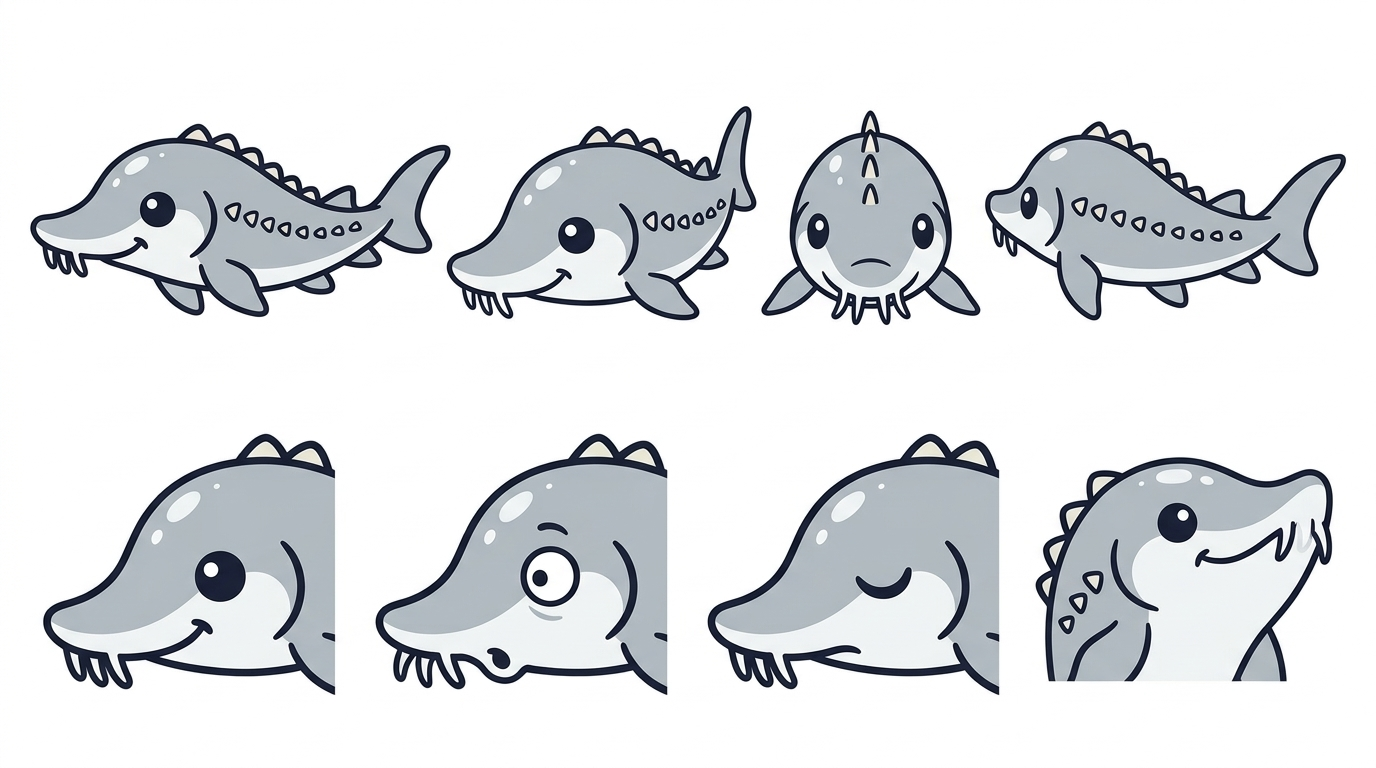
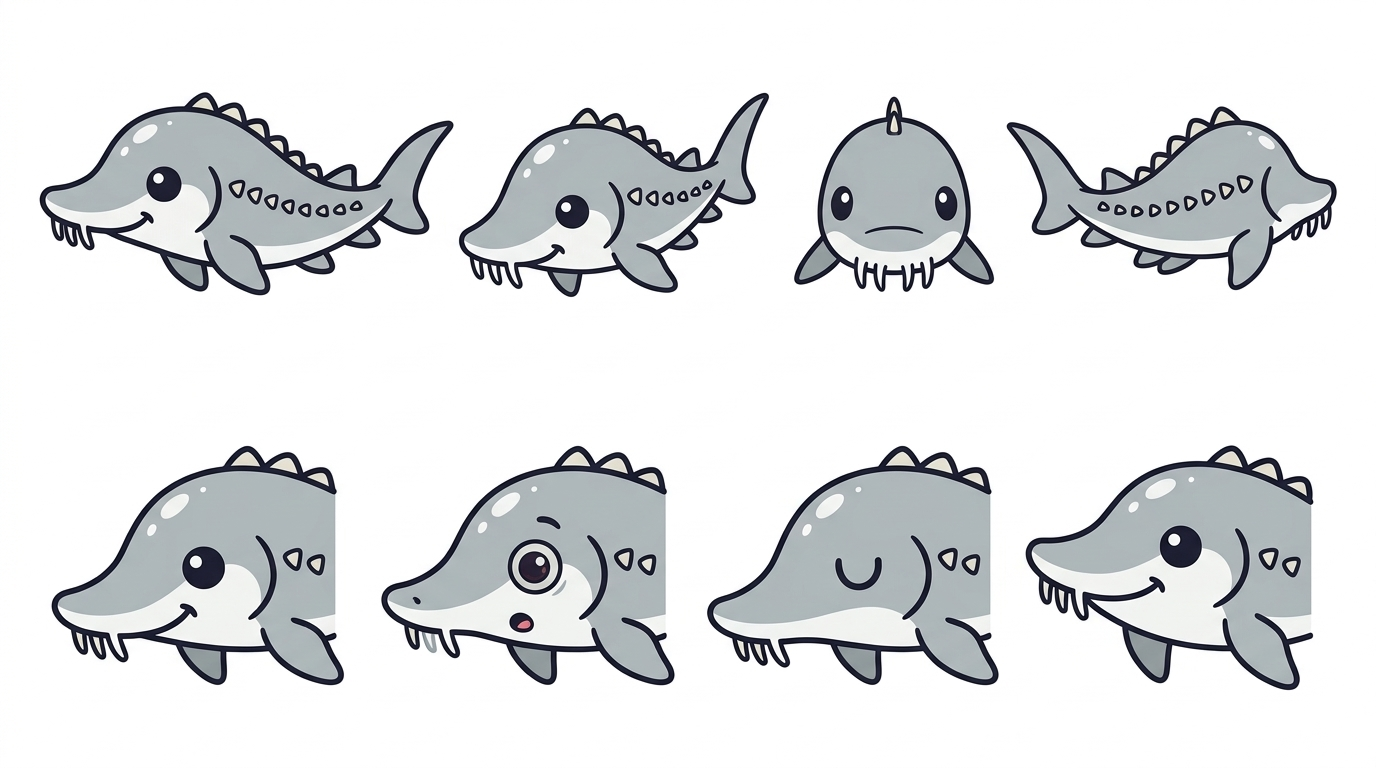
The swimming Chibi has one tail, and no teeth

Changed region(s): [[0.0312, 0.5625, 0.9688, 0.9062], [0.0, 0.125, 1.0, 0.4375]]

diff --git a/tools/run_chibi_swimmer_sheet.py b/tools/run_chibi_swimmer_sheet.py
@@ -26,7 +26,8 @@ PROMPT = (
     "Lay it out as two rows.\n"
     "TOP ROW - a turnaround of him swimming level, all the same size, evenly spaced: seen from his "
     "left side, from three-quarters front, head-on from the front, and from three-quarters behind.\n"
-    "BOTTOM ROW - four head-and-shoulders expressions at the same size, evenly spaced: happy, "
+    "BOTTOM ROW - four expressions, each drawn as his whole head and the front part of his body, "
+    "complete and unclipped, at the same size and evenly spaced: happy, "
     "surprised with wide eyes, sleepy with the eye closed, and proud with the chin lifted.\n\n"
     "*** TEXT RULE ***\n"
     "No text anywhere: no labels, no kanji, no kana, no romaji, no numbers, no arrows, no "
